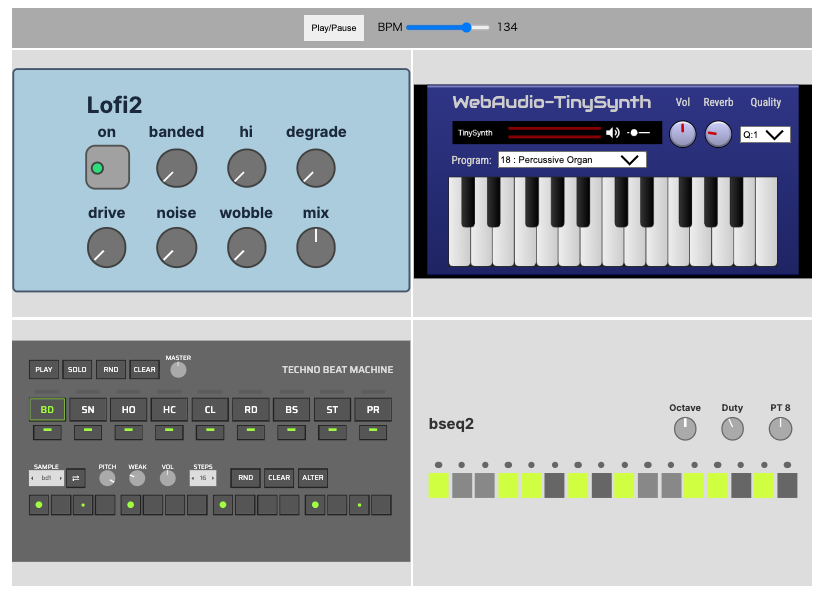
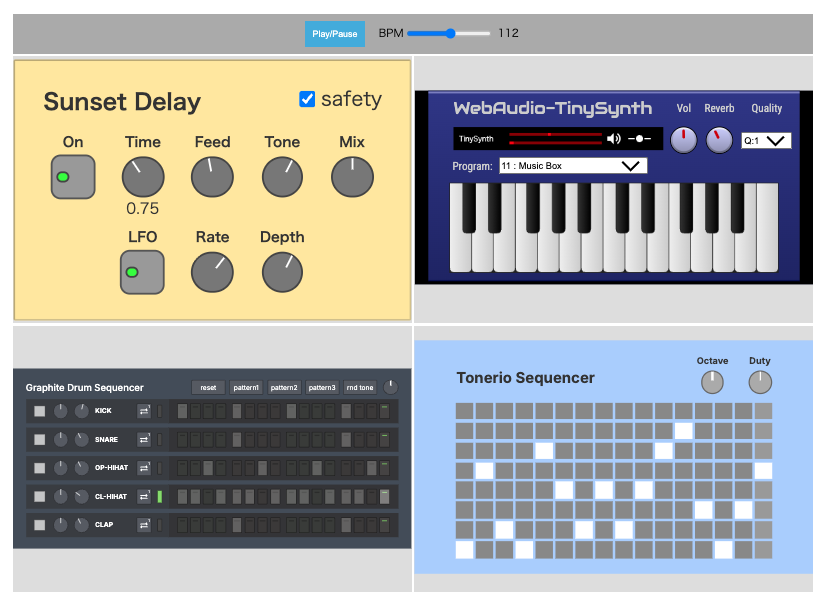
support web component units

diff --git a/example-apps/simple-session-vanilla/index.js b/example-apps/simple-session-vanilla/index.js
@@ -11,10 +11,9 @@ const store = {
 const createElement = (tag) => document.createElement(tag);
 const getElement = (id) => document.getElementById(id);
 
-function createUnit(baseDiv, unitId, destSpec, url) {
+function setupIframeUnit(baseDiv, unitId, destSpec, url) {
   const innerDiv = createElement("div");
   baseDiv.appendChild(innerDiv);
-  baseDiv.style.overflow = "hidden";
 
   const iframe = createElement("iframe");
   iframe.src = url;
@@ -25,17 +24,15 @@ function createUnit(baseDiv, unitId, destSpec, url) {
     const baseRect = baseDiv.getBoundingClientRect();
     const [w, h] = unitInstance.viewSize;
     const scale = Math.min(baseRect.width / w, baseRect.height / h);
-
     baseDiv.style.display = "flex";
     baseDiv.style.justifyContent = "center";
     baseDiv.style.alignItems = "center";
-
+    baseDiv.style.overflow = "hidden";
+    innerDiv.style.transform = `scale(${scale})`;
+    innerDiv.style.transformOrigin = "center";
     iframe.style.width = w + "px";
     iframe.style.height = h + "px";
     iframe.style.border = "none";
-
-    innerDiv.style.transform = `scale(${scale})`;
-    innerDiv.style.transformOrigin = "center";
     hostSystem.linkageApi.registerUnitInstance(unitInstance);
     hostSystem.linkageApi.reserveConnection(`${unitId}.primaryOutput`, destSpec, true);
   });
@@ -44,6 +41,58 @@ function createUnit(baseDiv, unitId, destSpec, url) {
       return unitInterface;
     }
   };
+}
+
+const customElementUnitInterfaceMap = new Map();
+window.queryUnitInterfaceForModule = (versionCode, requestModuleUrl) => {
+  if (versionCode === "wafer-v01") {
+    const item = customElementUnitInterfaceMap.get(requestModuleUrl);
+    customElementUnitInterfaceMap.delete(requestModuleUrl);
+    return item;
+  }
+  return undefined;
+};
+
+async function setupWebComponentsUnit(baseDiv, unitId, destSpec, url) {
+  const innerDiv = createElement("div");
+  baseDiv.appendChild(innerDiv);
+  const subInnerDiv = createElement("div");
+  innerDiv.appendChild(subInnerDiv);
+
+  const unitInterface = hostSystem.linkageApi.createUnitInterface(unitId, (unitInstance) => {
+    const baseRect = baseDiv.getBoundingClientRect();
+    const [w, h] = unitInstance.viewSize;
+    const scale = Math.min(baseRect.width / w, baseRect.height / h);
+    baseDiv.style.display = "flex";
+    baseDiv.style.justifyContent = "center";
+    baseDiv.style.alignItems = "center";
+    baseDiv.style.overflow = "hidden";
+    innerDiv.style.transform = `scale(${scale})`;
+    innerDiv.style.transformOrigin = "center";
+    subInnerDiv.style.width = w + "px";
+    subInnerDiv.style.height = h + "px";
+    hostSystem.linkageApi.registerUnitInstance(unitInstance);
+    hostSystem.linkageApi.reserveConnection(`${unitId}.primaryOutput`, destSpec, true);
+  });
+  const moduleUrl = `${location.origin}/${url}?tagName=${unitId}`;
+  customElementUnitInterfaceMap.set(moduleUrl, unitInterface);
+
+  const tagName = `${unitId}-unit`;
+  const unitElementClass = await import(moduleUrl).then((module) => module.default);
+  if (unitElementClass.supportsSharableUnitClass) {
+    throw new Error(`Sharable unit class is not supported: ${moduleUrl}`);
+  }
+  customElements.define(tagName, unitElementClass);
+  const element = createElement(tagName);
+  subInnerDiv.appendChild(element);
+}
+
+function setupUnit(baseDiv, unitId, destSpec, url) {
+  if (url.endsWith(".js")) {
+    setupWebComponentsUnit(baseDiv, unitId, destSpec, url);
+  } else {
+    setupIframeUnit(baseDiv, unitId, destSpec, url);
+  }
 }
 
 function setupPlayButton(button) {
@@ -77,10 +126,10 @@ window.addEventListener("load", () => {
     bpmInput: getElement("bpm-input"),
     bpmText: getElement("bpm-text"),
   };
-  createUnit(doms.card1, "effect1", "$output", "./units/lofi2/index.html");
-  createUnit(doms.card2, "synth1", "effect1", "./units/webaudio-tinysynth-mini/index.html");
-  createUnit(doms.card3, "drum1", "effect1", "./units/techno-beat-machine/index.html");
-  createUnit(doms.card4, "sequencer1", "synth1", "./units/bseq2/index.html");
+  setupUnit(doms.card1, "effect1", "$output", "units/sunset-delay/index.js");
+  setupUnit(doms.card2, "synth1", "effect1", "units/webaudio-tinysynth-mini/index.html");
+  setupUnit(doms.card3, "drum1", "$output", "units/graphite-drum-machine/index.js");
+  setupUnit(doms.card4, "sequencer1", "synth1", "units/tonerio-sequencer/index.html");
   setupPlayButton(doms.playButton);
   setupBpmInput(doms.bpmInput, doms.bpmText);
 });

diff --git a/example-apps/simple-session-vanilla/index.css b/example-apps/simple-session-vanilla/index.css
@@ -45,6 +45,10 @@ body {
   gap: 4px;
 }
 
+.bpm-input {
+  cursor: pointer;
+}
+
 .bpm-text {
   width: 40px;
   text-align: center;

diff --git a/example-apps/simple-session-vanilla/README.md b/example-apps/simple-session-vanilla/README.md
@@ -2,9 +2,6 @@
 
 A minimum host app example with plain javascript, without bundlers.
 
-This is a simplified app supporting only iframe based units.
-To run web-component based units, it requires further works.
-
 ## prepare
 
 Run fetch-units.sh first. The script downloads required units from github and store them in `./units` folder.
